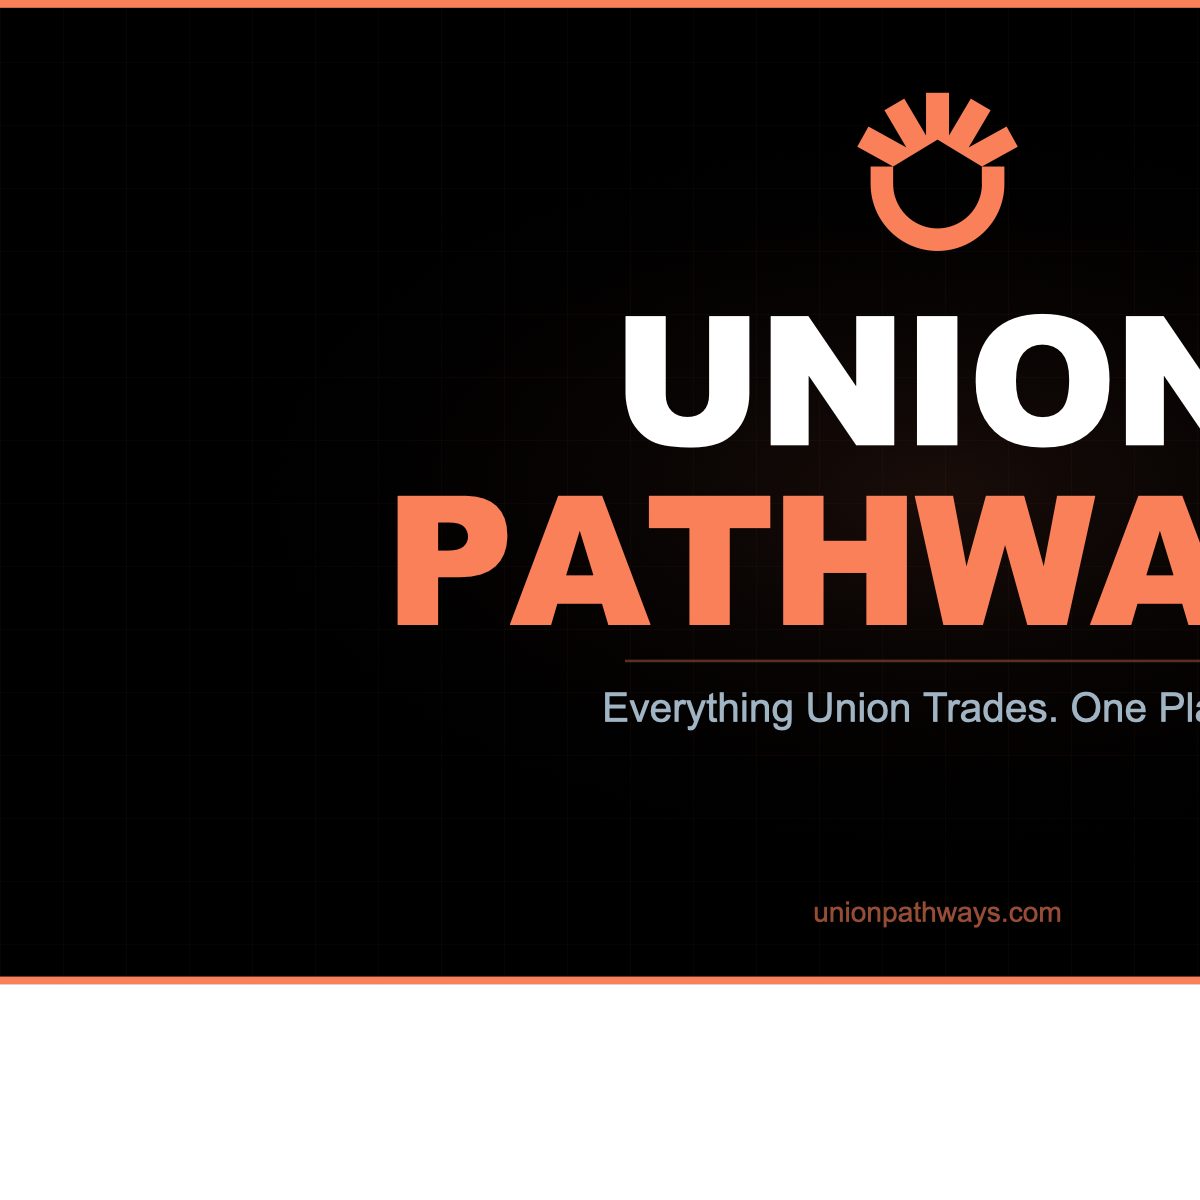
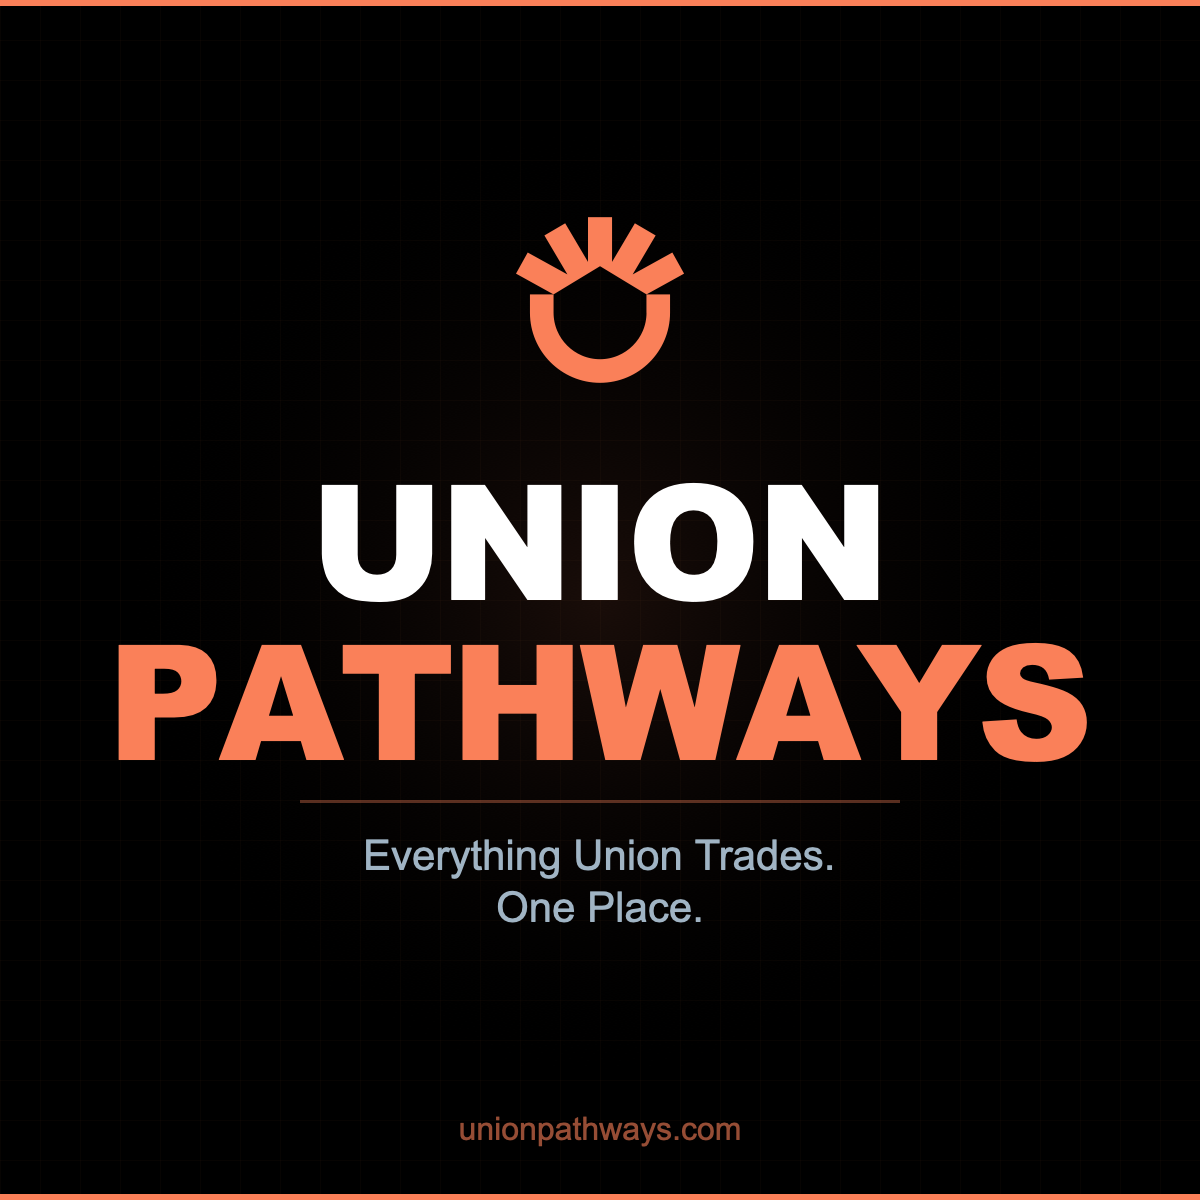
fix: use square 1200x1200 social preview image for all platforms

diff --git a/middleware.js b/middleware.js
@@ -34,7 +34,7 @@ export default function middleware(req) {
 <meta name="twitter:title" content="${m.title}"/>
 <meta name="twitter:description" content="${m.desc}"/>
 <meta property="og:image:width" content="1200"/>
-<meta property="og:image:height" content="630"/>
+<meta property="og:image:height" content="1200"/>
 <meta name="twitter:image" content="https://unionpathways.com/social-preview.png"/>
 <meta name="twitter:card" content="summary_large_image"/>
 <link rel="canonical" href="${url}"/>